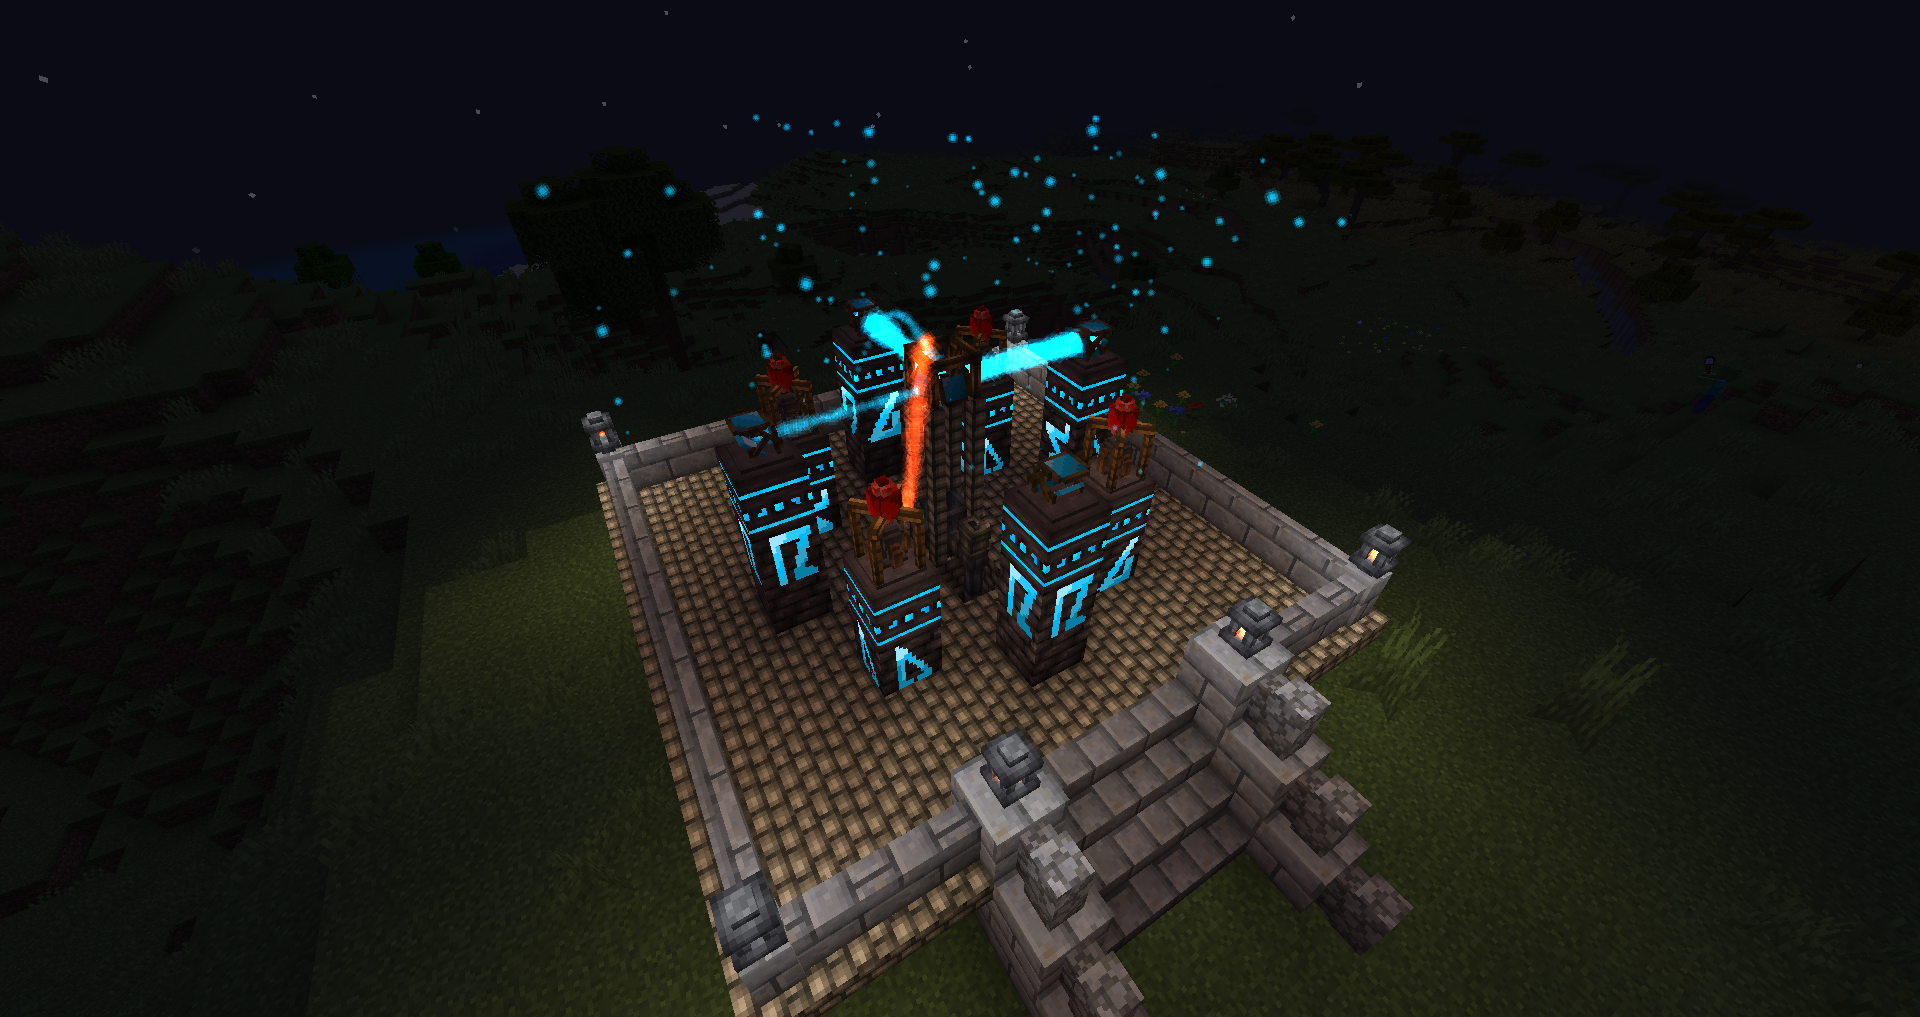
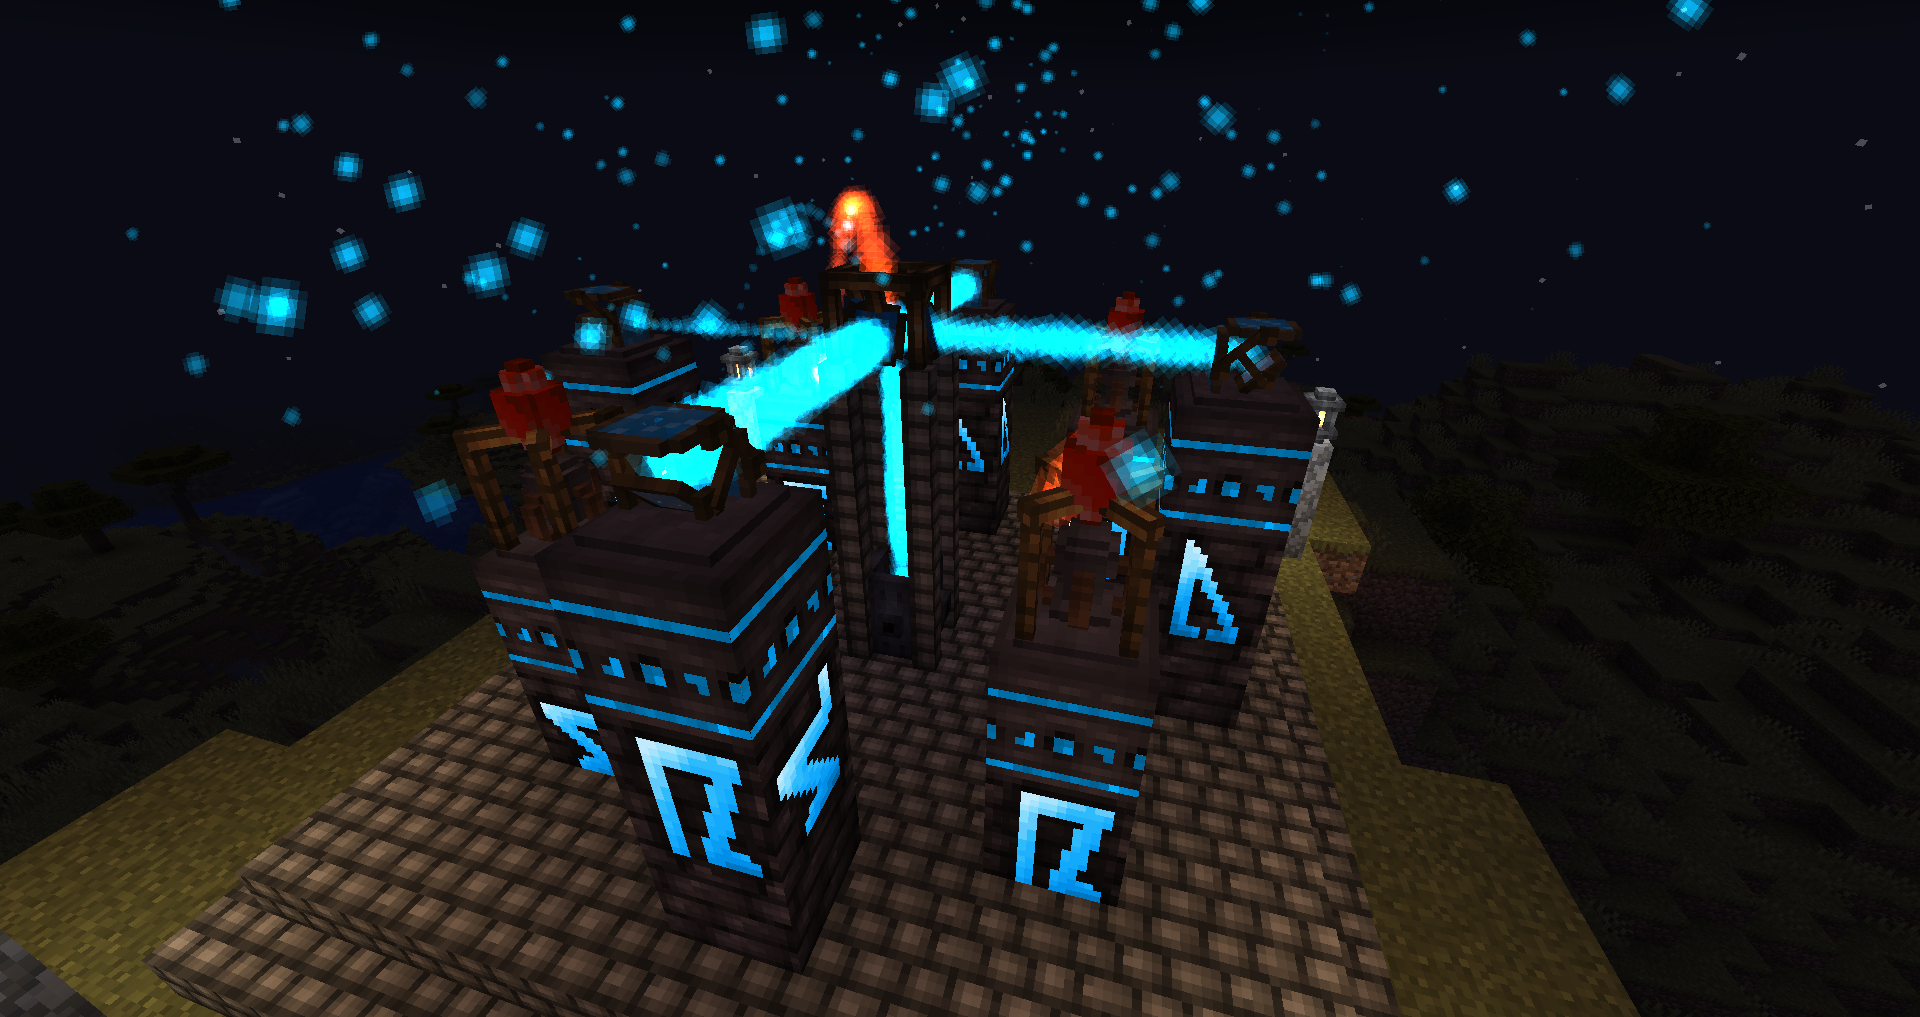
Better forge overlay + new moonlight harvester image

diff --git a/src/main/java/net/sirplop/aetherworks/blockentity/render/RenderForge.java b/src/main/java/net/sirplop/aetherworks/blockentity/render/RenderForge.java
@@ -17,14 +17,15 @@ public class RenderForge implements BlockEntityRenderer<ForgeCoreBlockEntity> {
     public RenderForge(BlockEntityRendererProvider.Context context)  { }
 
     public static final ResourceLocation LOCATION_FORGE_OVERLAY = new ResourceLocation(Aetherworks.MODID, "textures/block/forge/overlay.png");
-    public static final float[] COLOR = {1, 1, 1, 1};
+    //public static final float[] COLOR = {1, 1, 1, 1};
     public static final int[] LIGHTMAP = {240, 240};
 
-    private static final int frameTime = 20;
+    private static final int frameTime = 3;
     private static final int frameCount = 20;
     private static final float frameUVShift = 1f / frameCount;
     private int frame = 0;
     private float time = 0;
+    private float animTime = 0;
     private boolean flip = false;
 
     @Override
@@ -34,21 +35,16 @@ public class RenderForge implements BlockEntityRenderer<ForgeCoreBlockEntity> {
             return;
         }
         time += pPartialTick;
-        if (time >= frameTime)
-        {
-            time = 0;
-            if (flip)
-            {
-                if (--frame <= -1)
-                {
+        animTime += pPartialTick;
+        if (animTime >= frameTime) {
+            animTime = 0;
+            if (flip) {
+                if (--frame <= -1) {
                     flip = false;
                     frame += 2;
                 }
-            }
-            else
-            {
-                if (++frame >= frameCount)
-                {
+            } else {
+                if (++frame >= frameCount) {
                     flip = true;
                     frame -= 2;
                 }
@@ -61,26 +57,29 @@ public class RenderForge implements BlockEntityRenderer<ForgeCoreBlockEntity> {
         float uv0 = frameUVShift * frame;
         float uv1 = frameUVShift * (frame + 1);
 
+        float sin = 0.5F + (float) Math.abs(Math.sin(Math.toRadians(time * 3))) * 0.5F;
+        float[] color = {1, sin, sin, 1};
+
         //render all 12 faces of the forge
         poseStack.translate(-1, -1, -1); //north-west corner
-        FaceRendererUtil.renderFace(Direction.NORTH, overlayBuffer, poseStack, COLOR, LIGHTMAP, 0, 1, uv0, uv1);
-        FaceRendererUtil.renderFace(Direction.WEST, overlayBuffer, poseStack, COLOR, LIGHTMAP, 0, 1, uv0, uv1);
+        FaceRendererUtil.renderFace(Direction.NORTH, overlayBuffer, poseStack, color, LIGHTMAP, 0, 1, uv0, uv1);
+        FaceRendererUtil.renderFace(Direction.WEST, overlayBuffer, poseStack, color, LIGHTMAP, 0, 1, uv0, uv1);
         poseStack.translate(1, 0, 0); //north side
-        FaceRendererUtil.renderFace(Direction.NORTH, overlayBuffer, poseStack, COLOR, LIGHTMAP, 0, 1, uv0, uv1);
+        FaceRendererUtil.renderFace(Direction.NORTH, overlayBuffer, poseStack, color, LIGHTMAP, 0, 1, uv0, uv1);
         poseStack.translate(1, 0, 0); //north-east corner
-        FaceRendererUtil.renderFace(Direction.NORTH, overlayBuffer, poseStack, COLOR, LIGHTMAP, 0, 1, uv0, uv1);
-        FaceRendererUtil.renderFace(Direction.EAST, overlayBuffer, poseStack, COLOR, LIGHTMAP, 0, 1, uv0, uv1);
+        FaceRendererUtil.renderFace(Direction.NORTH, overlayBuffer, poseStack, color, LIGHTMAP, 0, 1, uv0, uv1);
+        FaceRendererUtil.renderFace(Direction.EAST, overlayBuffer, poseStack, color, LIGHTMAP, 0, 1, uv0, uv1);
         poseStack.translate(0, 0, 1); //east side
-        FaceRendererUtil.renderFace(Direction.EAST, overlayBuffer, poseStack, COLOR, LIGHTMAP, 0, 1, uv0, uv1);
+        FaceRendererUtil.renderFace(Direction.EAST, overlayBuffer, poseStack, color, LIGHTMAP, 0, 1, uv0, uv1);
         poseStack.translate(0, 0, 1); //south-east corner
-        FaceRendererUtil.renderFace(Direction.SOUTH, overlayBuffer, poseStack, COLOR, LIGHTMAP, 0, 1, uv0, uv1);
-        FaceRendererUtil.renderFace(Direction.EAST, overlayBuffer, poseStack, COLOR, LIGHTMAP, 0, 1, uv0, uv1);
+        FaceRendererUtil.renderFace(Direction.SOUTH, overlayBuffer, poseStack, color, LIGHTMAP, 0, 1, uv0, uv1);
+        FaceRendererUtil.renderFace(Direction.EAST, overlayBuffer, poseStack, color, LIGHTMAP, 0, 1, uv0, uv1);
         poseStack.translate(-1, 0, 0); //south side
-        FaceRendererUtil.renderFace(Direction.SOUTH, overlayBuffer, poseStack, COLOR, LIGHTMAP, 0, 1, uv0, uv1);
+        FaceRendererUtil.renderFace(Direction.SOUTH, overlayBuffer, poseStack, color, LIGHTMAP, 0, 1, uv0, uv1);
         poseStack.translate(-1, 0, 0); //south-west corner
-        FaceRendererUtil.renderFace(Direction.SOUTH, overlayBuffer, poseStack, COLOR, LIGHTMAP, 0, 1, uv0, uv1);
-        FaceRendererUtil.renderFace(Direction.WEST, overlayBuffer, poseStack, COLOR, LIGHTMAP, 0, 1, uv0, uv1);
+        FaceRendererUtil.renderFace(Direction.SOUTH, overlayBuffer, poseStack, color, LIGHTMAP, 0, 1, uv0, uv1);
+        FaceRendererUtil.renderFace(Direction.WEST, overlayBuffer, poseStack, color, LIGHTMAP, 0, 1, uv0, uv1);
         poseStack.translate(0, 0, -1); //west side
-        FaceRendererUtil.renderFace(Direction.WEST, overlayBuffer, poseStack, COLOR, LIGHTMAP, 0, 1, uv0, uv1);
+        FaceRendererUtil.renderFace(Direction.WEST, overlayBuffer, poseStack, color, LIGHTMAP, 0, 1, uv0, uv1);
     }
 }

diff --git a/CHANGELOG.md b/CHANGELOG.md
@@ -13,6 +13,7 @@ _Changes_
 - Changed out block harvest functions for non-recursive ones.
 - Remade the Moonlight Harvester rune textures.
 - Modified Moonlight Amplifier and Refraction Prism textures.
+- Improved Aetherium Forge overlay animation.
 
 _Fixes_
 
